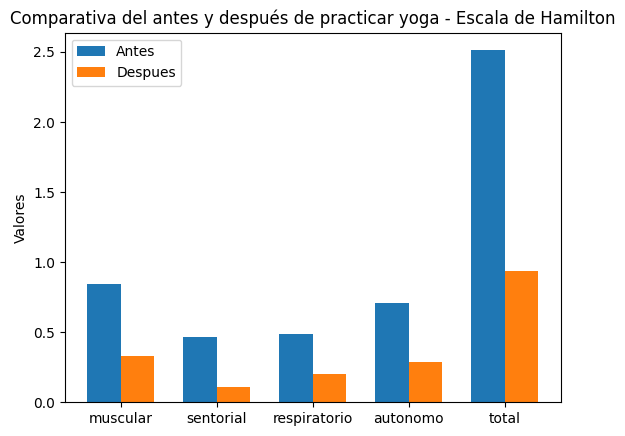
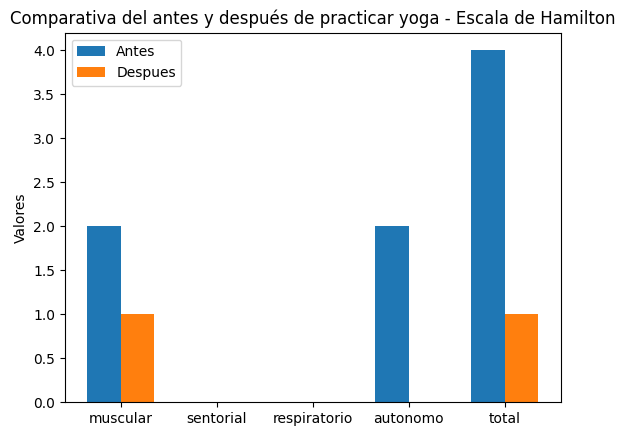
Prototipo final v2

diff --git a/templates/admin/ver_estadisticas.html b/templates/admin/ver_estadisticas.html
@@ -28,11 +28,22 @@
     <div class="col">
         <div class="card">
             <div class="card-header text-center">
-                <h3>Satisfacción General</h3>
+                <h3>Ayuda antiéstres</h3>
             </div>
-            <div class="card-body text-center h-75">
-                <img src="{{ url_for('static', filename='images/estadistica/satisfaccion.png') }}" class="img-fluid"
-                    alt="Grafico - Satisfaccion General">
+            <div class="card-body text-cente h-75">
+                <img src="{{ url_for('static', filename='images/estadistica/antiestres.png') }}" class="img-fluid"
+                    alt="Ayuda antiestres">
+            </div>
+        </div>
+    </div>
+    <div class="col">
+        <div class="card">
+            <div class="card-header text-center">
+                <h3>Estado de ánimo</h3>
+            </div>
+            <div class="card-body text-cente h-75">
+                <img src="{{ url_for('static', filename='images/estadistica/estado_animo.png') }}" class="img-fluid"
+                    alt="Ayuda antiestres">
             </div>
         </div>
     </div>
@@ -50,11 +61,11 @@
     <div class="col">
         <div class="card">
             <div class="card-header text-center">
-                <h3>Ayuda antiéstres</h3>
+                <h3>Satisfacción General</h3>
             </div>
-            <div class="card-body text-cente h-75">
-                <img src="{{ url_for('static', filename='images/estadistica/antiestres.png') }}" class="img-fluid"
-                    alt="Ayuda antiestres">
+            <div class="card-body text-center h-75">
+                <img src="{{ url_for('static', filename='images/estadistica/satisfaccion.png') }}" class="img-fluid"
+                    alt="Grafico - Satisfaccion General">
             </div>
         </div>
     </div>

diff --git a/templates/feedback.html b/templates/feedback.html
@@ -186,7 +186,7 @@
                     <label for="rangeAceptacionTecnologica" class="form-label">
                         <a tabindex="2" role="button" data-bs-toggle="popover" data-bs-trigger="hover"
                             data-bs-placement="top" data-bs-title="Aceptación Tecnológica"
-                            data-bs-content="Evalúa la disposición a utilizar la aplicación para para rutinas de yoga. Se puede calificar en base a la disposición y comodidad al adoptar la tecnología para practicar yoga.">
+                            data-bs-content="Evalúa la disposición a utilizar la aplicación para rutinas de yoga. Se puede calificar en base a la disposición y comodidad al adoptar la tecnología para practicar yoga.">
                             <i class="fas fa-info-circle"></i>
                         </a>
                         Aceptación Tecnológica: <output id="output3">0</output></label>

diff --git a/routes/control.py b/routes/control.py
@@ -52,7 +52,51 @@ def generar_grafico_hamilton_general():
 
 
 def generar_grafico_estado_animo():
-    print()
+    promedio_antes, promedio_despues = obtener_promedio_sintoma_general()
+    labels = ['Antes', 'Después']
+    values = [promedio_antes, promedio_despues]
+
+    fig, ax = plt.subplots()
+
+    # Crear las barras con colores específicos y sin espacio entre ellas
+    bars = ax.bar(labels, values, color=['#1f77b4', '#ff7f0e'], width=1.0)
+
+    for i in range(len(labels)):
+        ax.text(x = i, y = values[i]+0.1, s = round(values[i], 1), ha = 'center')
+
+    ax.set_xlabel('Momento')
+    ax.set_ylabel('Estado de Ánimo')
+    ax.set_title('Promedio de Estado de Ánimo'+' - General')
+
+    plt.ylim(0, 4)
+    plt.savefig('./static/images/estadistica/estado_animo.png', bbox_inches="tight")
+    plt.close()
+
+
+def obtener_promedio_sintoma_general():
+
+    sesiones = db['sesion'].find()
+
+    # Inicializar variables para almacenar los promedios
+    promedio_antes = 0
+    promedio_despues = 0
+    contador_antes = 0
+    contador_despues = 0
+
+    # Calcular promedios
+    for sesion in sesiones:
+        promedio_antes += sesion['hamilton']['escala_somatica_antes']['estado_animo']
+        promedio_despues += sesion['hamilton']['escala_somatica_despues']['estado_animo']
+        contador_antes += 1
+        contador_despues += 1
+
+    # Calcular promedios finales
+    if contador_antes != 0:
+        promedio_antes /= contador_antes
+    if contador_despues != 0:
+        promedio_despues /= contador_despues
+
+    return promedio_antes, promedio_despues
 
 def generar_grafico_pastel_genero():
     data = get_generos_cont()
@@ -92,8 +136,8 @@ def generar_grafico_atiestres():
 
     # Iterar sobre los documentos en la colección
     for doc in collection:
-        total_antes = doc['hamilton']['escala_somatica_antes']['total_antes']
-        total_despues = doc['hamilton']['escala_somatica_despues']['total_despues']
+        total_antes = doc['hamilton']['escala_somatica_antes']['total']
+        total_despues = doc['hamilton']['escala_somatica_despues']['total']
         
         # Clasificar en las categorías
         if total_antes > total_despues:
@@ -126,13 +170,13 @@ def generar_grafico_hamilton_general():
     suma_sensorial_antes = sum([item['escala_somatica_antes']['sentorial'] for item in lista])
     suma_respiratorio_antes = sum([item['escala_somatica_antes']['respiratorio'] for item in lista])
     suma_autonomo_antes = sum([item['escala_somatica_antes']['autonomo'] for item in lista])
-    suma_total_antes = sum([item['escala_somatica_antes']['total_antes'] for item in lista])
+    suma_total_antes = sum([item['escala_somatica_antes']['total'] for item in lista])
 
     suma_muscular_despues = sum([item['escala_somatica_despues']['muscular'] for item in lista])
     suma_sensorial_despues = sum([item['escala_somatica_despues']['sentorial'] for item in lista])
     suma_respiratorio_despues = sum([item['escala_somatica_despues']['respiratorio'] for item in lista])
     suma_autonomo_despues = sum([item['escala_somatica_despues']['autonomo'] for item in lista])
-    suma_total_despues = sum([item['escala_somatica_despues']['total_despues'] for item in lista])
+    suma_total_despues = sum([item['escala_somatica_despues']['total'] for item in lista])
 
     promedio_muscular_antes = suma_muscular_antes / len(lista)
     promedio_sensorial_antes = suma_sensorial_antes / len(lista)
@@ -246,12 +290,12 @@ def generar_grafico_hamilton(data):
             "sentorial_antes": data['escala_somatica_antes']['sentorial'],
             "respiratorio_antes": data['escala_somatica_antes']['respiratorio'],
             "autonomo_antes": data['escala_somatica_antes']['autonomo'],
-            "total_antes": data['escala_somatica_antes']['total_antes'],
+            "total_antes": data['escala_somatica_antes']['total'],
             "muscular_despues": data['escala_somatica_despues']['muscular'],
             "sentorial_despues": data['escala_somatica_despues']['sentorial'],
             "respiratorio_despues": data['escala_somatica_despues']['respiratorio'],
             "autonomo_despues": data['escala_somatica_despues']['autonomo'],
-            "total_despues": data['escala_somatica_despues']['total_despues']
+            "total_despues": data['escala_somatica_despues']['total']
         }
         
         antes = [datos[key] for key in datos if 'antes' in key]

diff --git a/routes/rutas.py b/routes/rutas.py
@@ -9,7 +9,7 @@ from app import app
 from db import db
 from passlib.hash import pbkdf2_sha256
 
-from routes.control import inicializar_modelo, get_lista_posturas, get_index_posturas, get_calibracion_rutina, get_posturas_rutina, get_duracion_fecha, insert_sesion,insert_usuario, get_usuario, get_sesiones, generar_grafico_estadisticas, generar_grafico_hamilton, generar_grafico_pastel_carreras, generar_grafico_satisfaccion_general, generar_grafico_hamilton_general, generar_grafico_atiestres, generar_grafico_pastel_genero
+from routes.control import inicializar_modelo, get_lista_posturas, get_index_posturas, get_calibracion_rutina, get_posturas_rutina, get_duracion_fecha, insert_sesion,insert_usuario, get_usuario, get_sesiones, generar_grafico_estadisticas, generar_grafico_hamilton, generar_grafico_pastel_carreras, generar_grafico_satisfaccion_general, generar_grafico_hamilton_general, generar_grafico_atiestres, generar_grafico_pastel_genero, generar_grafico_estado_animo
 
 app_socket = SocketIO(app)
 app.secret_key = '\xe9h\xa2z\xe5\xec\xcc\xcb\xc2\x00\xe4\xa8\x91@\xb0\xd8'.encode()
@@ -292,6 +292,7 @@ def generar_hamilton():
 @app.route('/admin/ver_estadistica_general')
 def ver_estadistica_general():
     generar_grafico_pastel_carreras()
+    generar_grafico_estado_animo()
     generar_grafico_pastel_genero()
     generar_grafico_satisfaccion_general()
     generar_grafico_hamilton_general()
